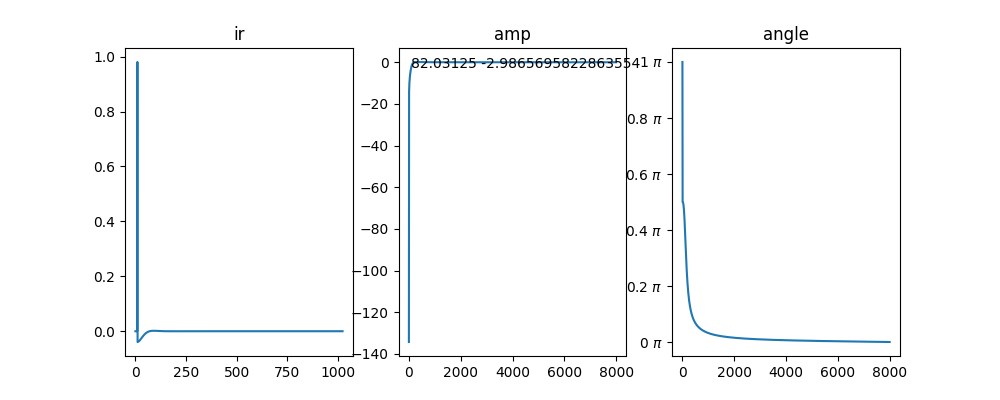
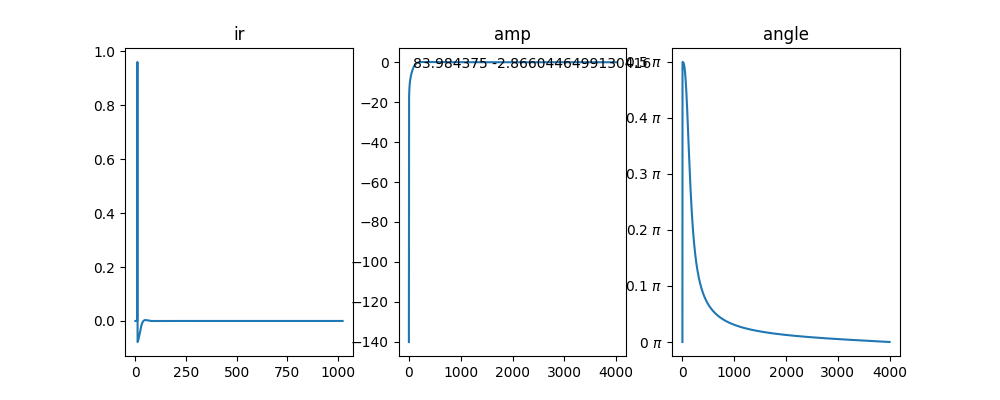
change default amp_theta from 1e-6 to 1e-4

diff --git a/RoomSimulator/RoomSimulator.py b/RoomSimulator/RoomSimulator.py
@@ -3,10 +3,11 @@ from scipy.interpolate import interp1d
 import scipy.signal
 import matplotlib.pyplot as plt
 import matplotlib
+import configparser
+import pickle
 import os
 
 from BasicTools.easy_parallel import easy_parallel
-from BasicTools.get_file_path import get_file_path
 from BasicTools.reverb.cal_DRR import cal_DRR
 from .Room import ShoeBox
 from .Source import Source
@@ -16,12 +17,20 @@ from .utils import norm_filter, nonedelay_filter
 
 
 class RoomSimulator(object):
-    def __init__(self, room_config, source_config=None, receiver_config=None):
+    def __init__(self, config_path=None,
+                 room_config=None, source_config=None, receiver_config=None,
+                 parent_pid=None):
         """split configuration into 3 parts, which is more flexible
             room_config: room size, absorption coefficients and other basic
             configuration like Fs source_config: configuration related to
             source receiver_config: configuration related to receiver
+            parent_pid: pid used for define dump_dir
         """
+        if config_path is not None:
+            [room_config,
+             receiver_config,
+             source_config] = self.parse_config_file(config_path)
+
         self._load_room_config(room_config)
         self.load_source_config(source_config)
         self.load_receiver_config(receiver_config)
@@ -89,18 +98,24 @@ class RoomSimulator(object):
              [+1, +1, +1],
              [+0, +1, +1]])
 
-        delay_ir_dir = f'dump/RoomSimulator/delay_filter/{os.getpid()}'
-        os.makedirs(delay_ir_dir, exist_ok=True)
-        if not os.path.exists(delay_ir_dir):
-            ir_path_all = get_file_path('dump/delay_filter',
-                                        suffix='.npy',
-                                        is_absolute=True)
-            if len(ir_path_all) > 0:
-                os.system(f"cp {' '.join(ir_path_all)} {delay_ir_dir}")
-        os.makedirs(delay_ir_dir, exist_ok=True)
-        self.delay_ir_dir = delay_ir_dir
+        self.dump_dir = f'dump/RoomSimulator_{parent_pid}'
 
-        self.B_power_table = {}
+        self.delay_ir_dir = f'{self.dump_dir}/delay_filter'
+        os.makedirs(self.delay_ir_dir, exist_ok=True)
+
+        self.B_power_table_path = f'{self.dump_dir}/B_power_table.pkl'
+        if os.path.exists(self.B_power_table_path):
+            try:
+                with open(self.B_power_table_path, 'rb') as B_power_table_file:
+                    self.B_power_table = pickle.load(B_power_table_file)
+            except Exception:
+                os.system(f'rm {self.B_power_table_path}')
+                self.B_power_table = {}
+        else:
+            self.B_power_table = {}
+
+        self.cube_index_dir = f'{self.dump_dir}/cube_index'
+        os.makedirs(self.cube_index_dir, exist_ok=True)
 
         # init
         self.amp_gain_reflect_all = np.zeros((0, self.F_abs.shape[0]))
@@ -109,7 +124,24 @@ class RoomSimulator(object):
         self.n_img = 0
 
     def clean_dump(self):
-        os.system(f'rm -r {self.delay_ir_dir}')
+        os.system(f'rm -r {self.dump_dir}')
+
+    def parse_config_file(self, config_path):
+        config_all = configparser.ConfigParser()
+        config_all.read(config_path)
+
+        room_config = configparser.ConfigParser()
+        room_config['Room'] = config_all['Room']
+
+        receiver_config = configparser.ConfigParser()
+        receiver_config['Receiver'] = config_all['Receiver']
+        n_mic = int(receiver_config['Receiver']['n_mic'])
+        for mic_i in range(n_mic):
+            receiver_config[f'Mic_{mic_i}'] = config_all[f'Mic_{mic_i}']
+
+        source_config = configparser.ConfigParser()
+        source_config['Source'] = config_all['Source']
+        return room_config, receiver_config, source_config
 
     def _load_room_config(self, config):
         # basic configuration
@@ -124,7 +156,7 @@ class RoomSimulator(object):
         if 'amp_theta' in config.keys():
             self.amp_theta = config['amp_theta']
         else:
-            self.amp_theta = 1e-6
+            self.amp_theta = 1e-4
 
         # configure of room
         self.room = ShoeBox(config)
@@ -308,7 +340,7 @@ class RoomSimulator(object):
         plt.title(f'n_img: {self.n_img}')
         return fig, ax
 
-    def cal_all_img(self, is_plot=False, is_verbose=False):
+    def cal_all_img(self, is_plot=False, is_verbose=False, n_worker=1):
         """ calculate all possible sound images based on matrix manipulation
         , which is more efficient
         To speed up:
@@ -318,23 +350,30 @@ class RoomSimulator(object):
             distance
         """
 
+        cube_index_all_path = os.path.join(
+            self.cube_index_dir,
+            '_'.join(map(str, self.n_cube_xyz))+'.npy')
+        if not os.path.exists(cube_index_all_path):
+            index_x_all, index_y_all, index_z_all = np.meshgrid(
+                np.arange(-self.n_cube_xyz[0], self.n_cube_xyz[0]+1,
+                          dtype=np.int16),
+                np.arange(-self.n_cube_xyz[1], self.n_cube_xyz[1]+1,
+                          dtype=np.int16),
+                np.arange(-self.n_cube_xyz[2], self.n_cube_xyz[2]+1,
+                          dtype=np.int16))
+            index_x_all, index_y_all, index_z_all = (
+                index_x_all.flatten().reshape(-1, 1),
+                index_y_all.flatten().reshape(-1, 1),
+                index_z_all.flatten().reshape(-1, 1))
+            cube_index_all = np.concatenate(
+                (index_x_all, index_y_all, index_z_all),
+                axis=1)
+            np.save(cube_index_all_path, cube_index_all)
+        else:
+            cube_index_all = np.load(cube_index_all_path, allow_pickle=True)
+
         img_pos_in_cube0 = (self.rel_img_pos_in_cube
                             * self.source.pos[np.newaxis, :])
-
-        index_x_all, index_y_all, index_z_all = np.meshgrid(
-            np.arange(-self.n_cube_xyz[0], self.n_cube_xyz[0]+1,
-                      dtype=np.int16),
-            np.arange(-self.n_cube_xyz[1], self.n_cube_xyz[1]+1,
-                      dtype=np.int16),
-            np.arange(-self.n_cube_xyz[2], self.n_cube_xyz[2]+1,
-                      dtype=np.int16))
-        index_x_all, index_y_all, index_z_all = (
-            index_x_all.flatten().reshape(-1, 1),
-            index_y_all.flatten().reshape(-1, 1),
-            index_z_all.flatten().reshape(-1, 1))
-        cube_index_all = np.concatenate(
-            (index_x_all, index_y_all, index_z_all),
-            axis=1)
         cube_pos_all = cube_index_all * self.room.size_double[np.newaxis, :]
 
         n_cube = cube_pos_all.shape[0]
@@ -361,10 +400,19 @@ class RoomSimulator(object):
         sort_index = np.argsort(np.sum(np.abs(img_pos_all), axis=1))
         img_pos_all = img_pos_all[sort_index]
         n_refl_all = n_refl_all[sort_index]
-        refl_gain_all = np.asarray(
-            [self.cal_wall_attenuate(n_refl_all[img_i])
-             for img_i in range(n_img)],
-            dtype=np.float16)
+
+        if n_worker > 1:
+            refl_gain_all = np.asarray(
+                easy_parallel(self.cal_wall_attenuate,
+                              n_refl_all[:, np.newaxis, :],
+                              n_worker=n_worker,
+                              dump_dir=self.dump_dir),
+                dtype=np.float16)
+        else:
+            refl_gain_all = np.asarray(
+                [self.cal_wall_attenuate(n_refl_all[img_i])
+                 for img_i in range(n_img)],
+                dtype=np.float16)
         valid_img_index = np.where(np.sum(refl_gain_all, axis=1)
                                    >= self.amp_theta)[0]
         self.n_img = valid_img_index.shape[0]
@@ -564,12 +612,15 @@ class RoomSimulator(object):
             img_index_batch = img_index_perm[i_start:i_end]
             tasks.append(
                 [self.img_pos_all[img_index_batch],
-                    self.refl_gain_all[img_index_batch],
-                    mic])
+                 self.refl_gain_all[img_index_batch],
+                 mic])
         results_batch_all = easy_parallel(self._cal_ir_refls,
                                           tasks,
-                                          n_worker=n_worker)
+                                          n_worker=n_worker,
+                                          dump_dir=self.dump_dir)
         if results_batch_all is None:
+            print(f'n_img: {self.n_img}',
+                  f'n_batch: {n_batch}')
             raise Exception('NULL rir')
         ir = np.zeros(self.ir_len)
         for results_batch in results_batch_all:
@@ -618,25 +669,19 @@ class RoomSimulator(object):
         return ir
 
     def cal_ir_mic(self, is_verbose=False, image_dir=None, parallel_type=2,
-                   n_worker=16):
+                   n_worker=8):
         """
         calculate rir with image sources already calculated
         """
-        if parallel_type == 0:
-            # no parallel
-            ir_all = []
-            for mic_i, mic in enumerate(self.receiver.mic_all):
-                if is_verbose:
-                    os.makedirs(f'{image_dir}/{mic_i}', exist_ok=True)
-                ir_all.append(
-                    self._cal_ir_1mic(mic, is_verbose, f'{image_dir}/{mic_i}'))
-        elif parallel_type == 1:  # a process per mic
+
+        if parallel_type == 1:  # a process per mic
             tasks = []
             for mic_i, mic in enumerate(self.receiver.mic_all):
                 if is_verbose:
                     os.makedirs(f'{image_dir}/{mic_i}', exist_ok=True)
                 tasks.append([mic, is_verbose, f'{image_dir}/{mic_i}'])
-            ir_all = easy_parallel(self._cal_ir_1mic, tasks, n_worker=n_worker)
+            ir_all = easy_parallel(self._cal_ir_1mic, tasks,
+                                   n_worker=n_worker, dump_dir=self.dump_dir)
         elif parallel_type == 2:
             # for each mic, divide sound images into batches
             # 1 process per batch
@@ -644,20 +689,21 @@ class RoomSimulator(object):
             for mic in self.receiver.mic_all:
                 ir_all.append(
                     self._cal_ir_1mic_parallel(mic, n_worker))
-        elif parallel_type == 3:
-            tasks = []
+        else:
+            # no parallel
+            ir_all = []
             for mic_i, mic in enumerate(self.receiver.mic_all):
                 if is_verbose:
                     os.makedirs(f'{image_dir}/{mic_i}', exist_ok=True)
-                tasks.append([mic, n_worker])
-            ir_all = easy_parallel(self._cal_ir_1mic_parallel, tasks,
-                                   n_worker=self.receiver.n_mic)
+                ir_all.append(
+                    self._cal_ir_1mic(mic, is_verbose, f'{image_dir}/{mic_i}'))
 
         ir_all = np.concatenate(
-            [ir.reshape([-1, 1]) for ir in ir_all],
+            [ir.reshape([-1, 1]) for ir in ir_all if ir is not None],
             axis=1)
 
-        np.save('dump/B_power_table.npy', self.B_power_table)
+        with open(self.B_power_table_path, 'wb') as B_power_table_file:
+            pickle.dump(self.B_power_table, B_power_table_file)
         return ir_all
 
     def cal_direct_ir_mic(self):
@@ -670,8 +716,11 @@ class RoomSimulator(object):
             axis=1)
         return direct_ir_all
 
-    def cal_DRR(self):
-        ir = self._cal_ir_1mic(self.receiver)
+    def cal_DRR(self, n_worker=1):
+        if n_worker > 1:
+            ir = self._cal_ir_1mic_parallel(self.receiver, n_worker)
+        else:
+            ir = self._cal_ir_1mic(self.receiver)
         direct_ir = self._cal_direct_ir_1mic(self.receiver)
         drr = cal_DRR(ir, direct_ir)
         return drr

diff --git a/examples/roomsim_effeciency_test.py b/examples/roomsim_effeciency_test.py
@@ -1,7 +1,6 @@
 import configparser
 import numpy as np
 import time
-import matplotlib.pyplot as plt
 
 from RoomSimulator import RoomSimulator
 
@@ -47,7 +46,7 @@ if __name__ == '__main__':
     roomsim.load_source_config(source_config)
 
     t_start = time.time()
-    roomsim.cal_all_img_direct()
+    roomsim.cal_all_img_directly()
     rir_raw = roomsim.cal_ir_mic()
     t_end = time.time()
     print(f'raw_version elapsed time: {t_end-t_start}s')
@@ -58,10 +57,9 @@ if __name__ == '__main__':
     t_end = time.time()
     print(f'compact_version elapsed time: {t_end-t_start}s')
 
-    fig, ax = plt.subplots(1, 3)
-    ax[0].plot(rir_raw[:, 0])
-    ax[1].plot(rir_compact[:, 0])
-    ax[2].plot(rir_raw[:, 0] - rir_compact[:, 0])
-    fig.savefig('../images/rir_raw_compact.png')
-
-    # np.save('rir.npy', rir)
+    t_start = time.time()
+    roomsim.amp_theta = 1e-4
+    roomsim.cal_all_img(n_worker=8)
+    rir_compact = roomsim.cal_ir_mic()
+    t_end = time.time()
+    print(f'compact&parallel_version elapsed time: {t_end-t_start}s')
